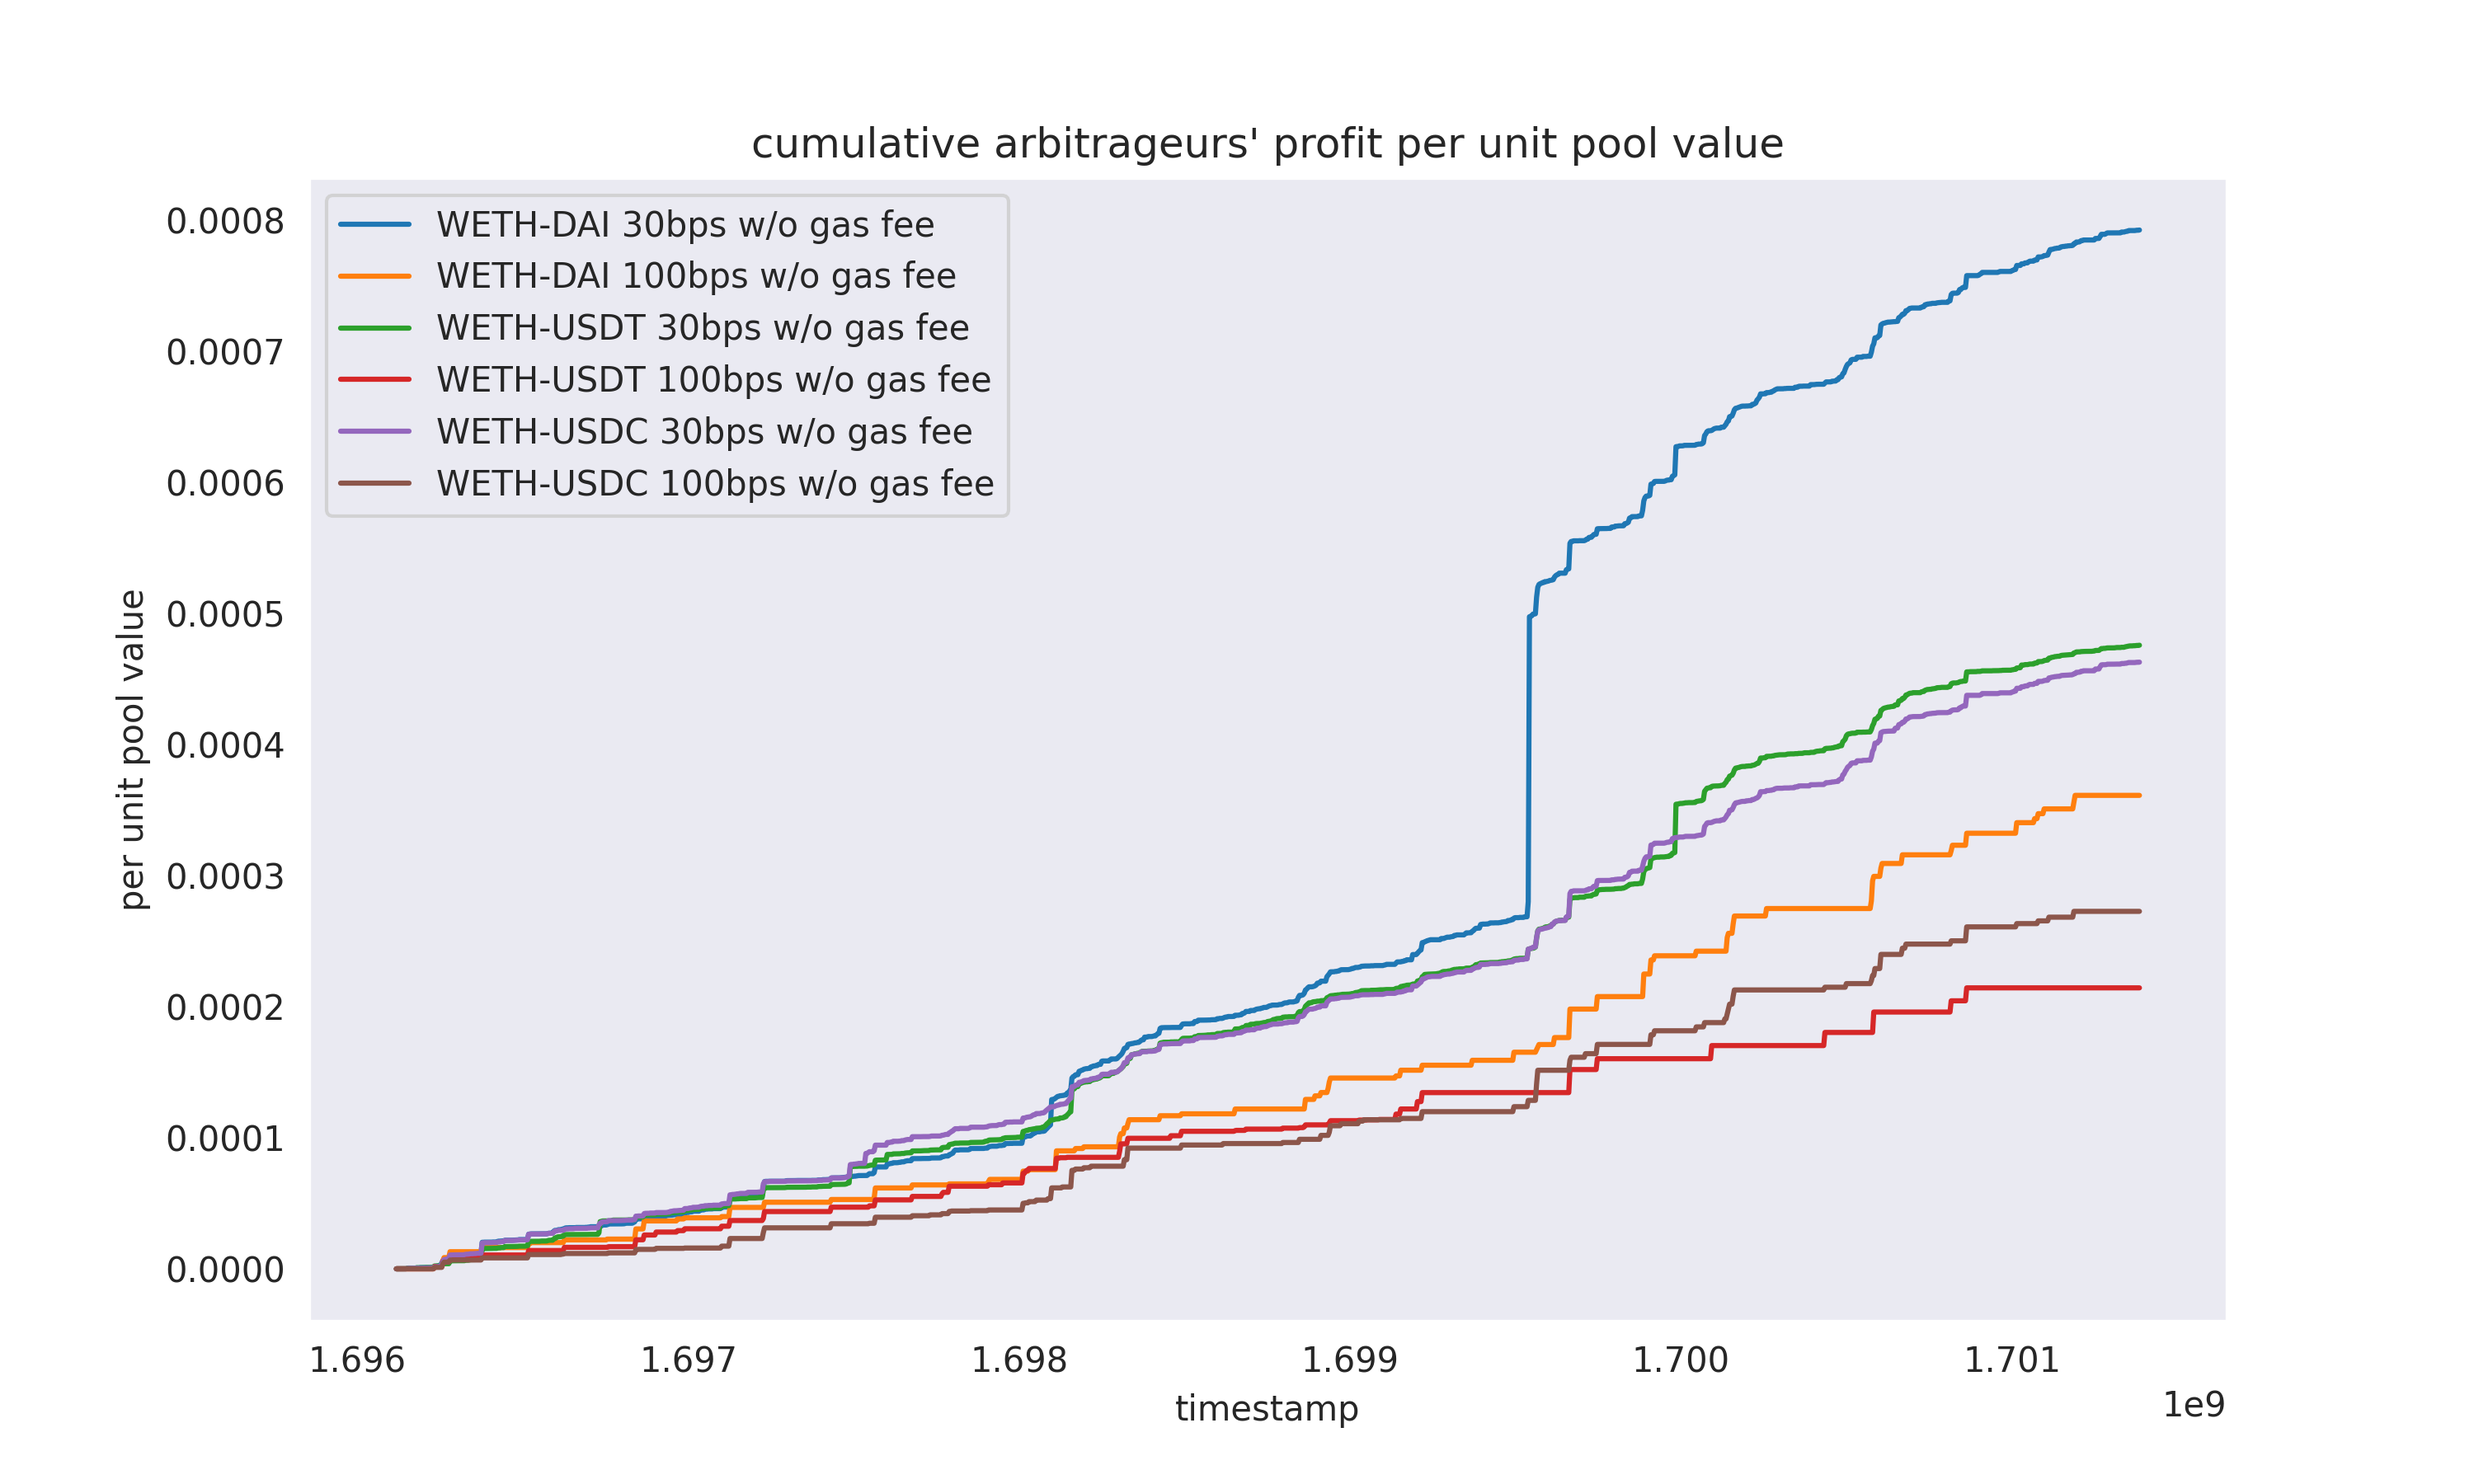
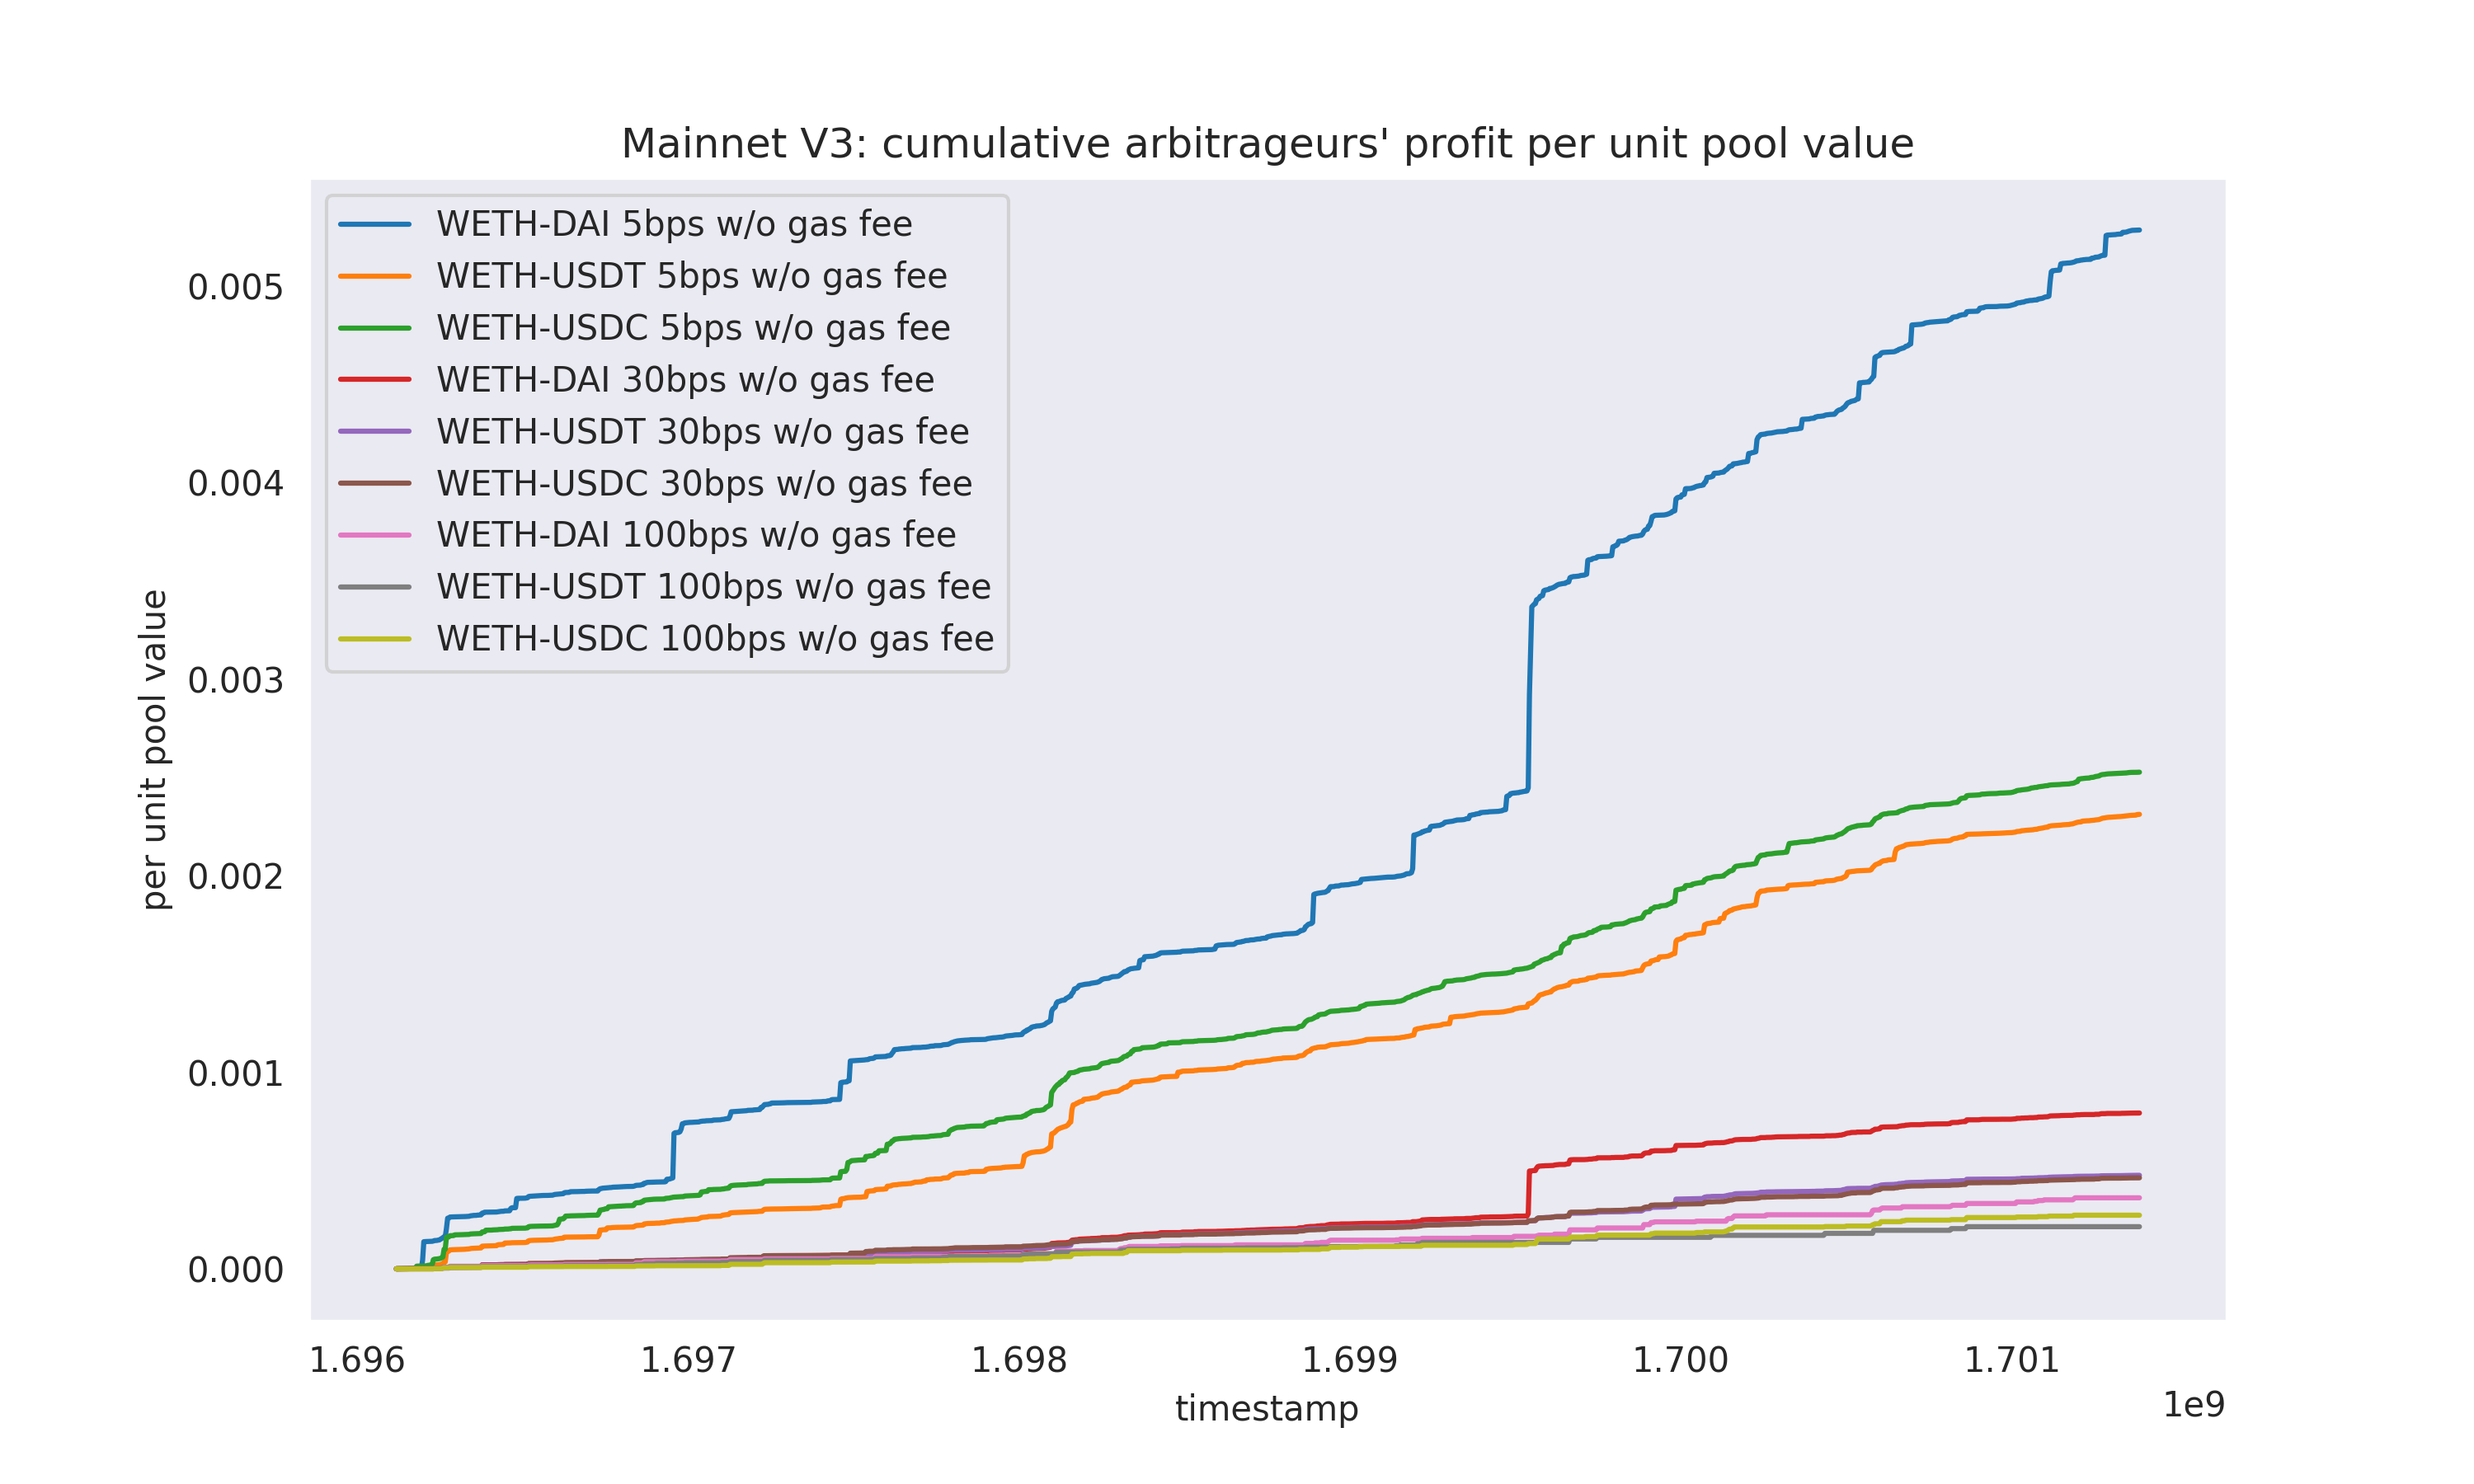
adsf

diff --git a/perform_pnl_analysis.py b/perform_pnl_analysis.py
@@ -90,14 +90,18 @@ sns.set_style("dark")
 plt.figure(figsize=(10, 6))
 
 # plot the lines
-for quote_token in ["DAI", "USDT", "USDC"]:
-    for fee in [30, 100]:
+for fee in [5, 30, 100]:
+    for quote_token in ["DAI", "USDT", "USDC"]:
         df = pd.read_csv(
             f"results/swaps/MAINNET_UNI_V3_WETH_{quote_token}_{fee}bps.csv"
         )
+        percentile_99th = abs(df["FEE"] - df["LVR"]).quantile(0.99)
+        df_filtered = df[abs(df["FEE"] - df["LVR"]) < percentile_99th]
         plt.plot(
-            df["timestamp"],
-            ((df["FEE"] - df["LVR"]) / df["poolValue"]).cumsum(),
+            df_filtered["timestamp"],
+            (
+                (df_filtered["FEE"] - df_filtered["LVR"]) / df_filtered["poolValue"]
+            ).cumsum(),
             label=f"WETH-{quote_token} {fee}bps",
         )
 
@@ -119,8 +123,8 @@ plt.show()
 plt.figure(figsize=(10, 6))
 
 # plot the lines
-for quote_token in ["DAI", "USDT", "USDC"]:
-    for fee in [30, 100]:
+for fee in [5, 30, 100]:
+    for quote_token in ["DAI", "USDT", "USDC"]:
         df = pd.read_csv(
             f"results/arbitrages/MAINNET_UNI_V3_WETH_{quote_token}_{fee}bps.csv"
         )
@@ -139,4 +143,195 @@ plt.title("Mainnet V3: cumulative arbitrageurs' profit per unit pool value")
 
 # Save & Show the plot
 plt.savefig("results/MAINNET_UNI_V3_Arb_pnl.png", dpi=300)
+plt.show()
+
+############################################################
+#                    Mainnet V2 entire                     #
+############################################################
+
+# Create the plot
+plt.figure(figsize=(10, 6))
+
+# plot the lines
+for quote_token in ["DAI", "USDT", "USDC"]:
+    for dex in ["UNI_V2", "SUSHI"]:
+        df = pd.read_csv(f"results/swaps/MAINNET_{dex}_WETH_{quote_token}_30bps.csv")
+        percentile_99th = abs(df["FEE"] - df["LVR"]).quantile(0.99)
+        df_filtered = df[abs(df["FEE"] - df["LVR"]) < percentile_99th]
+        plt.plot(
+            df_filtered["timestamp"],
+            (
+                (df_filtered["FEE"] - df_filtered["LVR"]) / df_filtered["poolValue"]
+            ).cumsum(),
+            label=f"{dex} WETH-{quote_token} 30bps",
+        )
+
+# Label the axes
+plt.xlabel("timestamp")
+plt.ylabel("per unit pool value")
+plt.legend()
+plt.title("Mainnet V2: (FEE - LVR) per unit pool value from entire orderflow")
+
+# Save & Show the plot
+plt.savefig("results/MAINNET_UNI_V2_ENTIRE_pnl.png", dpi=300)
+plt.show()
+
+############################################################
+#                Mainnet V2 arbitrage only                 #
+############################################################
+
+# Create the plot
+plt.figure(figsize=(10, 6))
+
+# plot the lines
+for quote_token in ["DAI", "USDT", "USDC"]:
+    for dex in ["UNI_V2", "SUSHI"]:
+        df = pd.read_csv(
+            f"results/arbitrages/MAINNET_{dex}_WETH_{quote_token}_30bps.csv"
+        )
+        plt.plot(
+            df["timestamp"],
+            df["realizedARBperPoolValue"].cumsum(),
+            label=f"{dex} WETH-{quote_token} 30bps w/o gas fee",
+        )
+
+
+# Label the axes
+plt.xlabel("timestamp")
+plt.ylabel("per unit pool value")
+plt.legend()
+plt.title("Mainnet V2: cumulative arbitrageurs' profit per unit pool value")
+
+# Save & Show the plot
+plt.savefig("results/MAINNET_UNI_V2_Arb_pnl.png", dpi=300)
+plt.show()
+
+############################################################
+#                   ARBITRUM V3 entire                     #
+############################################################
+
+# Create the plot
+plt.figure(figsize=(10, 6))
+
+# plot the lines
+for fee in [5, 30, 100]:
+    for quote_token in ["DAI", "USDT", "USDC", "USDCe"]:
+        df = pd.read_csv(
+            f"results/swaps/ARBITRUM_UNI_V3_WETH_{quote_token}_{fee}bps.csv"
+        )
+        percentile_99th = abs(df["FEE"] - df["LVR"]).quantile(0.99)
+        df_filtered = df[abs(df["FEE"] - df["LVR"]) < percentile_99th]
+        plt.plot(
+            df_filtered["timestamp"],
+            (
+                (df_filtered["FEE"] - df_filtered["LVR"]) / df_filtered["poolValue"]
+            ).cumsum(),
+            label=f"WETH-{quote_token} {fee}bps",
+        )
+
+# Label the axes
+plt.xlabel("timestamp")
+plt.ylabel("per unit pool value")
+plt.legend()
+plt.title("ARBITRUM V3: (FEE - LVR) per unit pool value from entire orderflow")
+
+# Save & Show the plot
+plt.savefig("results/ARBITRUM_UNI_V3_ENTIRE_pnl.png", dpi=300)
+plt.show()
+
+############################################################
+#               ARBITRUM V3 arbitrage only                 #
+############################################################
+
+# Create the plot
+plt.figure(figsize=(10, 6))
+
+# plot the lines
+for fee in [5, 30, 100]:
+    for quote_token in ["DAI", "USDT", "USDC", "USDCe"]:
+        df = pd.read_csv(
+            f"results/arbitrages/ARBITRUM_UNI_V3_WETH_{quote_token}_{fee}bps.csv"
+        )
+        plt.plot(
+            df["timestamp"],
+            df["realizedARBperPoolValue"].cumsum(),
+            label=f"WETH-{quote_token} {fee}bps w/o gas fee",
+        )
+
+
+# Label the axes
+plt.xlabel("timestamp")
+plt.ylabel("per unit pool value")
+plt.legend()
+plt.title("ARBITRUM V3: cumulative arbitrageurs' profit per unit pool value")
+
+# Save & Show the plot
+plt.savefig("results/ARBITRUM_UNI_V3_Arb_pnl.png", dpi=300)
+plt.show()
+
+############################################################
+#                   ARBITRUM V2 entire                     #
+############################################################
+
+# Create the plot
+plt.figure(figsize=(10, 6))
+
+# plot the lines
+for dex, quote_token in [
+    ("SUSHI", "USDC"),
+    ("SUSHI", "USDT"),
+    ("SUSHI", "DAI"),
+    ("SUSHI", "USDCe"),
+    ("CAMELOT", "USDCe"),
+]:
+    df = pd.read_csv(f"results/swaps/ARBITRUM_{dex}_WETH_{quote_token}_30bps.csv")
+    percentile_99th = abs(df["FEE"] - df["LVR"]).quantile(0.99)
+    df_filtered = df[abs(df["FEE"] - df["LVR"]) < percentile_99th]
+    plt.plot(
+        df_filtered["timestamp"],
+        ((df_filtered["FEE"] - df_filtered["LVR"]) / df_filtered["poolValue"]).cumsum(),
+        label=f"{dex} WETH-{quote_token} 30bps",
+    )
+
+# Label the axes
+plt.xlabel("timestamp")
+plt.ylabel("per unit pool value")
+plt.legend()
+plt.title("ARBITRUM V2: (FEE - LVR) per unit pool value from entire orderflow")
+
+# Save & Show the plot
+plt.savefig("results/ARBITRUM_UNI_V2_ENTIRE_pnl.png", dpi=300)
+plt.show()
+
+############################################################
+#               ARBITRUM V2 arbitrage only                 #
+############################################################
+
+# Create the plot
+plt.figure(figsize=(10, 6))
+
+# plot the lines
+for dex, quote_token in [
+    ("SUSHI", "USDC"),
+    ("SUSHI", "USDT"),
+    ("SUSHI", "DAI"),
+    ("SUSHI", "USDCe"),
+    ("CAMELOT", "USDCe"),
+]:
+    df = pd.read_csv(f"results/arbitrages/ARBITRUM_{dex}_WETH_{quote_token}_30bps.csv")
+    plt.plot(
+        df["timestamp"],
+        df["realizedARBperPoolValue"].cumsum(),
+        label=f"{dex} WETH-{quote_token} 30bps w/o gas fee",
+    )
+
+
+# Label the axes
+plt.xlabel("timestamp")
+plt.ylabel("per unit pool value")
+plt.legend()
+plt.title("ARBITRUM V2: cumulative arbitrageurs' profit per unit pool value")
+
+# Save & Show the plot
+plt.savefig("results/ARBITRUM_UNI_V2_Arb_pnl.png", dpi=300)
 plt.show()

diff --git a/perform_error_analysis.py b/perform_error_analysis.py
@@ -90,22 +90,16 @@ sns.set_style("dark")
 plt.figure(figsize=(10, 6))
 
 # plot the lines
-for quote_token in ["DAI", "USDT", "USDC"]:
-    for fee in [30, 100]:
+for fee in [5, 30, 100]:
+    for quote_token in ["DAI", "USDT", "USDC"]:
         df = pd.read_csv(
             f"results/arbitrages/MAINNET_UNI_V3_WETH_{quote_token}_{fee}bps.csv"
-        )
-        plt.plot(
-            df["timestamp"],
-            df["realizedLVRperPoolValue"].cumsum(),
-            label=f"WETH-{quote_token} {fee}bps realized LVR",
         )
         plt.plot(
             df["timestamp"],
             df["expectedLVRperPoolValue"].cumsum(),
             label=f"WETH-{quote_token} {fee}bps expected LVR",
         )
-
 
 # Label the axes
 plt.xlabel("timestamp")
@@ -114,5 +108,44 @@ plt.legend()
 plt.title("Mainnet V3: theory vs. reality")
 
 # Save & Show the plot
-plt.savefig("results/MAINNET_UNI_V3_LVR_error.png", dpi=300)
+plt.savefig("results/MAINNET_UNI_V3_LVR_expected.png", dpi=300)
+plt.show()
+
+# Create the plot
+plt.figure(figsize=(10, 6))
+
+# plot the lines
+for fee in [5, 30, 100]:
+    for quote_token in ["DAI", "USDT", "USDC"]:
+        df = pd.read_csv(
+            f"results/arbitrages/MAINNET_UNI_V3_WETH_{quote_token}_{fee}bps.csv"
+        )
+        plt.plot(
+            df["timestamp"],
+            df["expectedLVRperPoolValue"].cumsum(),
+            label=f"WETH-{quote_token} {fee}bps expected LVR",
+            color='grey'
+        )
+
+# plot the lines
+for fee in [5, 30, 100]:
+    for quote_token in ["DAI", "USDT", "USDC"]:
+        df = pd.read_csv(
+            f"results/arbitrages/MAINNET_UNI_V3_WETH_{quote_token}_{fee}bps.csv"
+        )
+        plt.plot(
+            df["timestamp"],
+            df["realizedLVRperPoolValue"].cumsum(),
+            label=f"WETH-{quote_token} {fee}bps realized LVR",
+            color='blue'
+        )
+
+# Label the axes
+plt.xlabel("timestamp")
+plt.ylabel("per unit pool value")
+plt.legend()
+plt.title("Mainnet V3: theory vs. reality")
+
+# Save & Show the plot
+plt.savefig("results/MAINNET_UNI_V3_LVR_both.png", dpi=300)
 plt.show()

diff --git a/process_v2_data.py b/process_v2_data.py
@@ -295,12 +295,17 @@ def v2_swaps_and_arbitrages(
 
 
 if __name__ == "__main__":
-    network = "MAINNET"
-    dex = "SUSHI"
+    network = "ARBITRUM"
     base_token = "WETH"
-    quote_token = "DAI"
     fee = 30  # in bps
     use_instant_volatility = True
-    v2_swaps_and_arbitrages(
-        network, dex, base_token, quote_token, fee, use_instant_volatility
-    )
+    for dex, quote_token in [
+        ("CAMELOT", "USDCe"),
+        ("SUSHI", "USDC"),
+        ("SUSHI", "USDT"),
+        ("SUSHI", "DAI"),
+        ("SUSHI", "USDCe"),
+    ]:
+        v2_swaps_and_arbitrages(
+            network, dex, base_token, quote_token, fee, use_instant_volatility
+        )

diff --git a/process_v3_data.py b/process_v3_data.py
@@ -301,12 +301,12 @@ def v3_swaps_and_arbitrages(
 
 
 if __name__ == "__main__":
-    network = "MAINNET"
+    network = "ARBITRUM"
     dex = "UNI_V3"
     base_token = "WETH"
-    quote_token = "DAI"
-    fee = 100  # in bps
-    use_instant_volatility = True
-    v3_swaps_and_arbitrages(
-        network, dex, base_token, quote_token, fee, use_instant_volatility
-    )
+    for quote_token in ["DAI", "USDC", "USDT"]:
+        for fee in [5, 30, 100]:
+            use_instant_volatility = True
+            v3_swaps_and_arbitrages(
+                network, dex, base_token, quote_token, fee, use_instant_volatility
+            )
